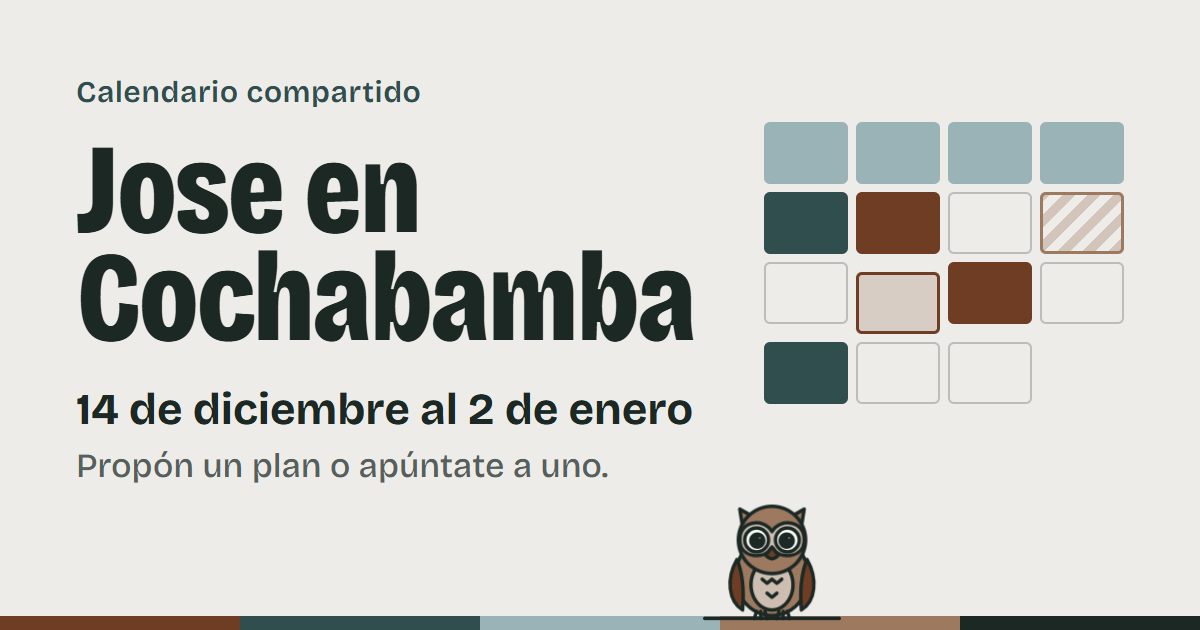
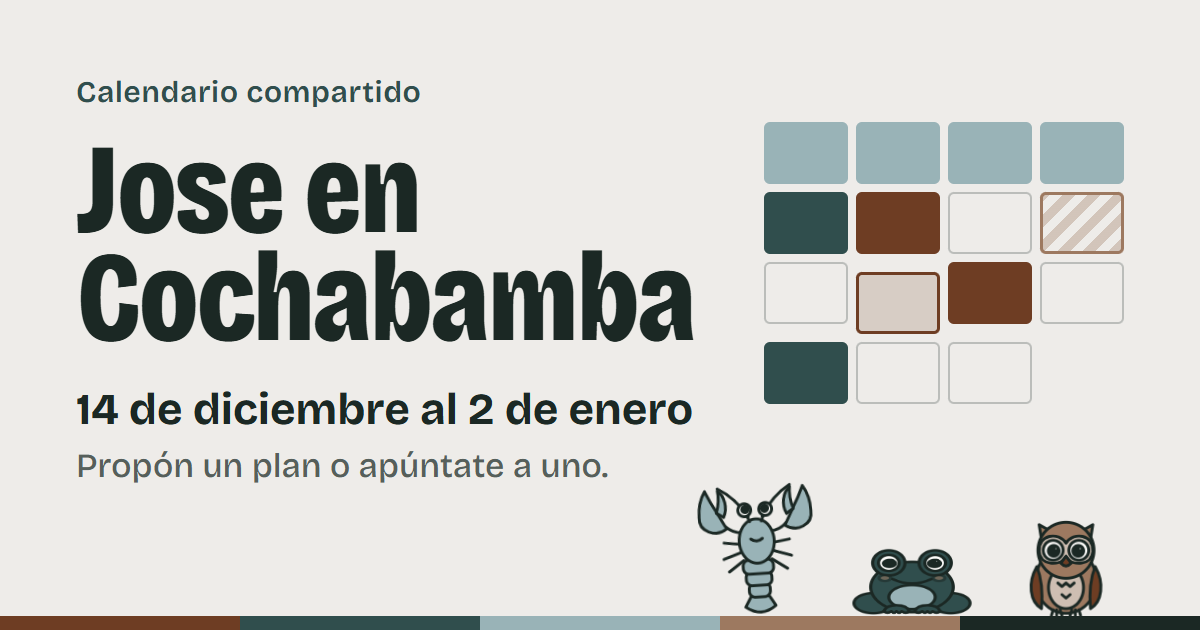
Preview card: the lobster, the frog and the owl on the band

Changed region(s): [[0.555, 0.754, 0.925, 0.9952]]

diff --git a/tools/social-card.html b/tools/social-card.html
@@ -1,7 +1,7 @@
 <!doctype html>
 <!-- The link preview image (images/social-card.png, 1200x630) that WhatsApp,
      Instagram and others show when the friends' link is shared. It uses the
-     site's own stylesheet, font and owl. Regenerate with: npm run images -->
+     site's own stylesheet, font and animals. Regenerate with: npm run images -->
 <html lang="es">
 <head>
   <meta charset="utf-8">
@@ -28,9 +28,16 @@
     }
     .grid .free { box-shadow: inset 0 0 0 2px color-mix(in srgb, var(--obsidian) 24%, var(--alabaster)); }
     .grid .join { background: color-mix(in srgb, var(--mahogany) 18%, var(--alabaster)); box-shadow: inset 0 0 0 3px var(--mahogany); }
-    .owl { position: absolute; z-index: 1; right: 172px; bottom: -4px; }
-    .owl .critter { width: 168px; height: 168px; }
-    .owl .critter * { stroke: var(--obsidian); }
+    /* The three animals stand on the color band. Each drawing ends at a
+       different height in its box, so each gets its own nudge down. */
+    .crew { position: absolute; z-index: 1; right: 64px; bottom: 14px; display: flex; align-items: flex-end; gap: 14px; }
+    .crew .critter { width: 140px; height: 140px; }
+    .crew .critter * { stroke: var(--obsidian); }
+    .crew .lobster { margin-bottom: -2px; }
+    .crew .frog { margin-bottom: -18px; }
+    .crew .owl { margin-bottom: -16px; }
+    /* The band is their ground: no frog shadow, no owl branch. */
+    .crew .frog .shadow, .crew .owl > path:first-child { display: none; }
     .band { position: absolute; left: 0; right: 0; bottom: 0; height: 14px; display: flex; }
     .band i { flex: 1; }
   </style>
@@ -50,7 +57,9 @@
       <i class="own"></i><i class="free"></i><i class="free"></i><i></i>
     </div>
   </div>
-  <div class="owl"><span data-critter="owl"></span></div>
+  <div class="crew">
+    <span data-critter="lobster"></span><span data-critter="frog"></span><span data-critter="owl"></span>
+  </div>
   <div class="band" aria-hidden="true">
     <i style="background: var(--mahogany)"></i><i style="background: var(--slate)"></i><i style="background: var(--pewter)"></i>
     <i style="background: var(--bronze)"></i><i style="background: var(--obsidian)"></i>

diff --git a/README.md b/README.md
@@ -58,7 +58,7 @@ the system setting.
 The tab icon is the owl on a slate tile (`images/favicon.svg`, with PNG
 copies for older browsers and the iPhone home screen). A shared link shows a
 preview card (`images/social-card.png`, 1200x630) through Open Graph tags in
-`index.html`: the title, the dates, a slice of the timetable and the owl,
+`index.html`: the title, the dates, a slice of the timetable and the three animals,
 nothing from the calendar itself. The card is drawn from
 `tools/social-card.html` with the site's own stylesheet; after changing it or
 the icon, run `npm run images` (needs `playwright-core`). WhatsApp keeps its
